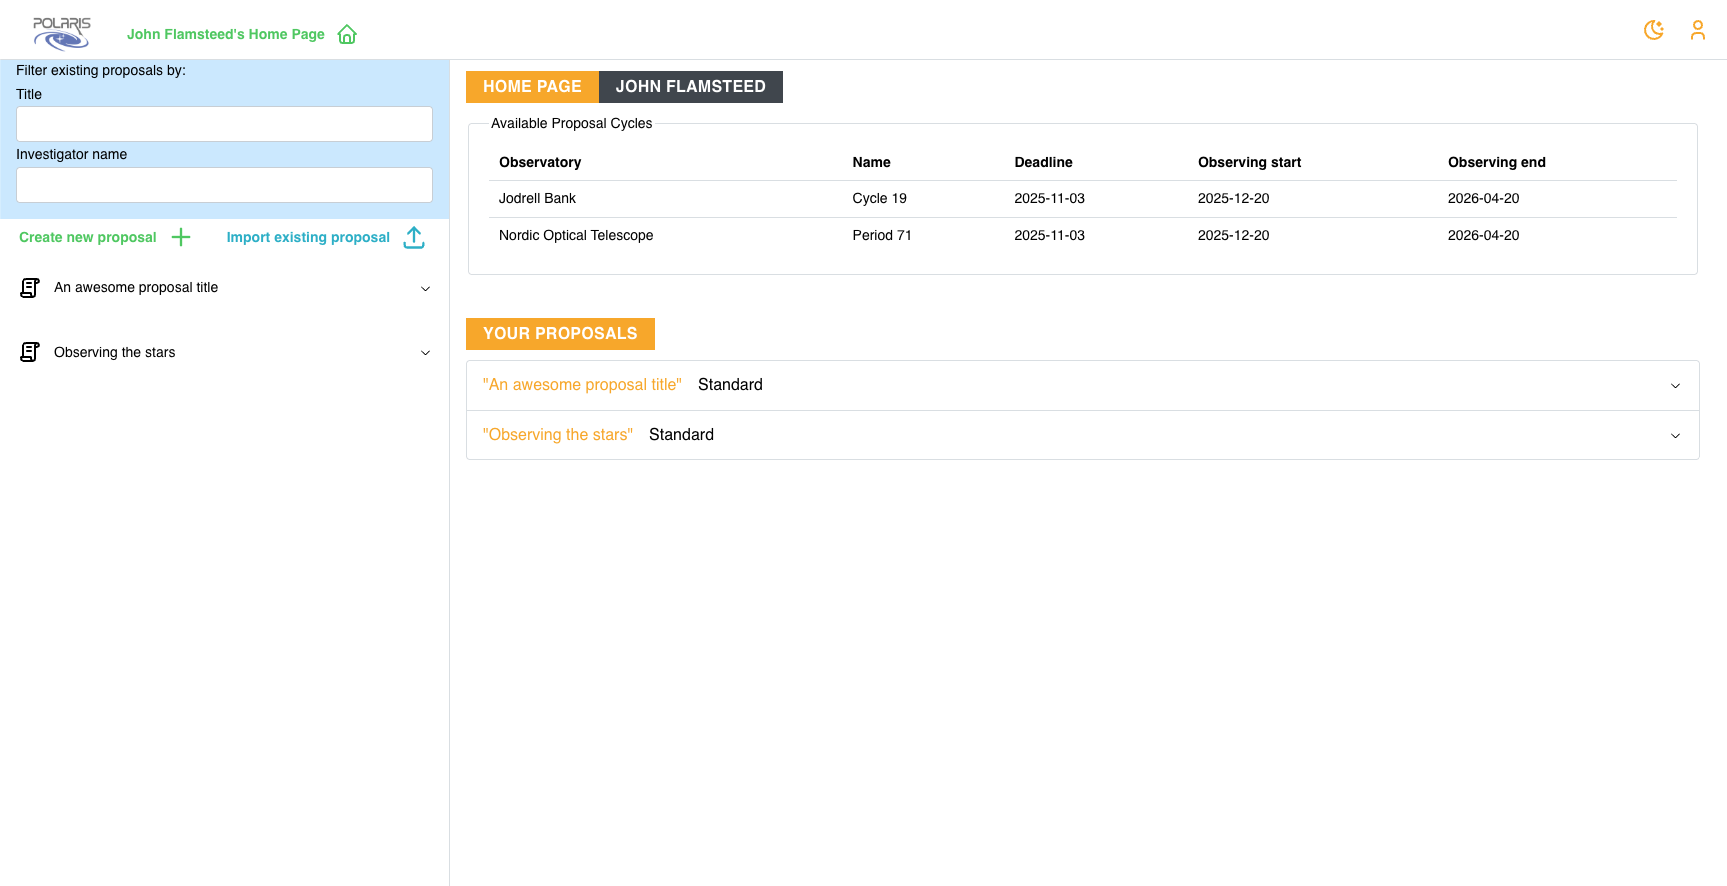
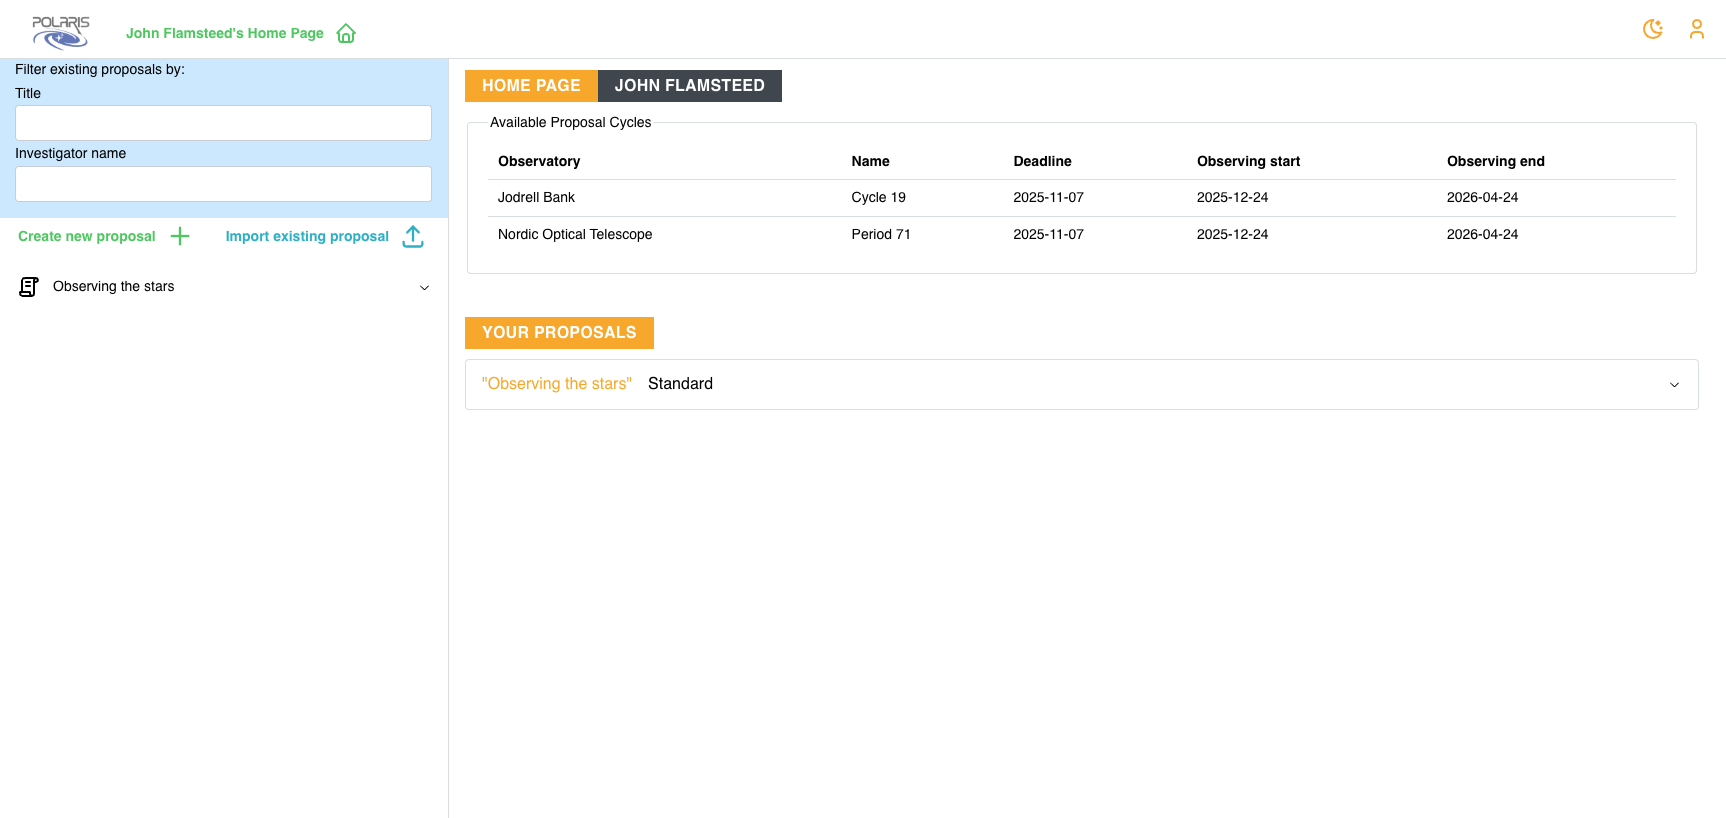
update text instructions and screenshots to latest

diff --git a/docs/Observer/Justifications/index.md b/docs/Observer/Justifications/index.md
@@ -1,9 +1,16 @@
+
+Last updated **2025-10-24** Polaris _beta_ version.
+
 ## Filling out Justifications
 
 In Polaris there are two **Justification** "flavours": **Scientific** and **Technical**.
 
 Both **Justifications** are to be provided as LaTex text strings. That is, text decorated with
-the usual LaTex commands for figures, tables, and citations (or whatever else you wish to put in your document)
+the usual LaTex commands for figures, tables, and citations (or whatever else you want to insert into your document).
+
+In the current version of Polaris you must manually save (urgh!) your **Justification** texts. We recommend creating
+and editing the texts elsewhere then copy-paste them into Polaris. In future versions of Polaris we will make the
+Justifications a "save as you type" service. 
 
 These texts will be inserted into the following "main.tex" file under the relevant section headings:
 
@@ -53,7 +60,11 @@ These texts will be inserted into the following "main.tex" file under the releva
 ```
 The ellipsis (...) in the file replaces a lengthy section where we define custom "insert figure" functions. These
 functions are described in detail in the _Help_ tab found on the **Justifications** page in Polaris. Also see the
-**Custom Insert Figure Functions** section below.
+[**Custom Insert Figure Functions**](#custom-insert-figure-functions) section below.
+
+We are using our own bibliography style template that (generally) gives only the sufficient details of a reference
+to find the associated article. We've done this in an effort to reduce "bloat" in the _References_ section of the
+compiled document.
 
 The following screenshot shows the Justifications page in Polaris. Please notice that the two **Justification**
 text areas are found in separate tabs labelled _Scientific Justification_ and _Technical Justification_, along with 
@@ -89,8 +100,9 @@ Please note that image formats are restricted to '.jpg', '.png', '.eps', and '.p
 be aware that uploading an image file with the same filename as an existing file
 will overwrite that file, and there will be no warning. You cannot have multiple bibliography files.
 
-We are using our own bibliography style template that (generally) gives only the sufficient details of a reference
-to find the associated article. 
+Justification resource files are considered to be **Supporting Documents** and as such can also be viewed and
+downloaded in the **Documents** section of Polaris. The documents belong to a given proposal and all _Investigators_
+associated with the proposal may view and download the files any other investigator has uploaded.
 
 ## Custom Insert Figure Functions
 
@@ -110,6 +122,9 @@ and 1, defining the width of the figure in terms of the text-width. It defaults 
 0.5 for the single figure cases, and is an even division of the total text-width for
 the multiple figure cases. If supplied, the width parameter for the multiple figure
 cases applies to each of the images in the figure, rather than the whole figure itself.
+The astute among you will have deduced then that the product of the width
+value with the number of figures must not exceed one, else the figures will overflow
+the text.
 
 The **filename** parameter(s) should match the name of the image file(s) that you wish to
 insert. You may exclude the dot extension part of the filename, just remember that the filename
@@ -124,16 +139,12 @@ multiple figure cases, the 'filename' should be the name of the first filename p
 edge-case issue with this labelling strategy. If you have a single figure that uses an image file repeated
 as the first image in a multiple figure command, you'll get a naming conflict. The most straightforward 
 way around this issue would be to exclude the dot extension for one of the filenames. If you're including
-the same image in more than two figures (though you'd better have a good reason for doing this) then you could upload 
+the same image in more than two figures (I mean, _WHY_!?) then you could upload 
 the image with different filenames such that the figure labels will be different.
 
 Notice that the two figure and three figure functions will place the images in a
 single row, whereas the four figure function will place the images in a two-by-two
-arrangement.The astute among you will have deduced then that the product of the width
-value with the number of figures must not exceed one, else the figures will overflow
-the text. In the case of the four-figure command due to the two-by-two arrangement,
-two times the width parameter must not exceed one. For the multiple figure functions,
-each image will be labelled '(a)' through to '(d)' where appropriate.
+arrangement. For the multiple figure functions, each image will be labelled '(a)' through '(d)' where appropriate.
 
 If the multiple figure-caption layout is not to your liking, or you have more than four images to place in a figure,
 then you can always create your own multiple figure as a single image file and use the "onefigure" command.
@@ -144,15 +155,18 @@ or 'r' or 'R' for the image on the right. The uppercase version allows the image
 float, whereas the lowercase version means exactly here. (Our command uses the
 'wrapfigure' environment from the 'wrapfig' package).
 
+Of course, you can entirely ignore these custom insert figure functions and use the standard Latex syntax for
+inserting figures (using the 'graphicx' package). 
+
 # Compiling your Justification
 
-To compile your **Justification** document simply click the _Compile to PDF_ button. We
+To compile your **Justification** document click the _Compile to PDF_ button. We
 recommend keeping 'Warnings as errors' checked. After a short delay waiting for the compilation 
 to complete on the server, a modal will open displaying the status of the compilation.
 
-If you have compilation errors they will be listed in the _Latex Status_ section of the modal.
+If you have compilation errors they will be listed in the _Compilation output_ section of the modal.
 Typically, these will be caused by typos in the LaTex commands or missing resource files. To illustrate
-in the following screenshot we have tried to compile a document with an inserted a figure using
+in the following screenshot we have tried to compile a document with an insert figure command using
 an image file named 'missing' we have yet to upload to the server.
 
 ![polaris Justification compilation failure](polaris-justifications-failure.png)
@@ -169,8 +183,10 @@ If your compilation was successful you will see the following output in the moda
 
 It will give you a page count and a _Download PDF_ button that when clicked downloads the compiled document.
 Another _Download PDF_ button will also appear in the **Justifications** main page. Please be aware that the
-button on the Justifications main page, will download the latest _successfully_ compiled document only.
+button on the Justifications main page, will download the latest _successfully_ compiled document only. That is,
+any edits to your Justification texts that do not compile successfully with not appear in the downloadable
+document (this may be obvious to most of you, but we know what some of you are like).
 
-For your information, you will see a _CYCLE ID HERE_ placeholder in the header of the document. This is for the
+For your information, you will see a "_CYCLE-ID-HERE_" placeholder in the header of the document. This is for the
 Time Allocation Committee (of a particular Proposal Cycle) use only, and is replaced with an actual value upon 
 submission of the proposal to a cycle.

diff --git a/docs/Observer/Creating Proposals/build-observation.md b/docs/Observer/Creating Proposals/build-observation.md
@@ -6,6 +6,9 @@ description: >
 categories: [Examples]
 tags: [test, sample, docs]
 ---
+
+Last updated **2025-10-24** Polaris _beta_ version.
+
 # Build an Observation
 
 After adding at least one **Target** and at least one **Technical Goal** you will see the following summary page 
@@ -27,31 +30,30 @@ The messages in red describe the necessary fields that are required to create an
 its type and intended use where appropriate.
 
 Each **Observation** must have at least one **Target** and multiple selections are allowed. **Observations** can
-only have one **Technical Goal** selected, and you must provide at least one **Timing Window**. 
+only have one **Technical Goal** selected. **Timing Windows** are optional, and in general refer to some
+(external) observation that relates to your proposal in some way. 
 
 A **Timing Window** is a timing constraint on the **Observation**, and consists of _start_ and _end_ times that 
 can be specified up to the minutes unit, an _avoid_ toggle switch that changes the meaning of the window, to be
 explained presently, and an optional note to provide additional information if required. Typically, a 
-**Timing Window** will specify the range of times when the **Observation** should be performed i.e., the _avoid_ 
-toggle is unset. However, with the _avoid_ toggle set the window then specifies the range of times when the 
-**Observation** should **_not_** be performed. (Notice that
-the **Timing Window** must relate to the **Proposal Cycle** _session_ interval to which you will be submitting
-the proposal - this validation check is done during the submission process.)
+**Timing Window** will specify when an external observation will be performed i.e., the _avoid_ 
+toggle is unset. However, with the _avoid_ toggle set the window then specifies the range of times when the external
+observation will **_not_** be performed. You can add as many **Timing Windows** to an **Observation** as required by 
+your needs. Please note that the _start_ time must be at an earlier time than the _end_ time, but that different 
+**Timing Windows** may overlap. It is recommended to write optional notes to provide context for anyone reviewing your 
+proposal. Notice that we assume all times are entered as UTC. Generally, most proposals will not be using this feature.
 
-You can add as many **Timing Windows** to an **Observation** as required by your needs. Please note that the 
-_start_ time must be at an earlier time than the _end_ time, but that different **Timing Windows** may overlap. 
-In this case, it is recommended to write optional notes to provide context for anyone reviewing your proposal. 
-Notice that we assume all times are entered as UTC. 
-
-With all that information entered, click _Save_ to save the **Observation** to your **Proposal**. This will 
-bring you back to the _Observations_ summary page, that will now contain your newly built **Observation**.
+With the required information, Type, Target(s), and Technical Goals, entered, click _Save_ to save the 
+**Observation** to your **Proposal**. This will bring you back to the _Observations_ summary page, that will now 
+contain your newly built **Observation**.
 
 ![Observations summary page](polaris-observation-list.png)
 
 
 As with **Technical Goals** you may _Edit_ and _Copy_ **Observations** to avoid having to repeat data entry for
-**Observations** that have similar attributes. For example, using the same **Target** but for different types,
-_Target_ or _Calibration_, of **Observation** with perhaps the same **Technical Goal** and/or timing constraints.
+**Observations** that have similar attributes. Due to restrictions in the backend code you cannot change the _Type_
+of an existing **Observation**. If you wish to create an **Observation** with a different _Type_ you must 
+create a new **Observation** rather than copying one. 
 
 With an **Observation** now built both the **Target** and the **Technical Goal** to which it refers have their 
 _Delete_ button disabled. This prevents you from deleting either of these things while they are actively referred

diff --git a/docs/Observer/Submitting Proposals/index.md b/docs/Observer/Submitting Proposals/index.md
@@ -1,10 +1,12 @@
 
-Last updated **2025-10-21** Polaris _beta_ version.
+Last updated **2025-10-24** Polaris _beta_ version.
 
 # Submit your Proposal
 
 Once you are happy with the details of your **Proposal**, and it has passed the server side validation checks
-you may submit it for review.
+you may submit it for review. Please notice that submission it restricted to the _Principal Investigator_ only,
+_Co-Investigators_ cannot submit proposals.
+
 The proposal submission process consists of several steps.
 
 ## Step 1 - Select the **Proposal Cycle**
@@ -19,12 +21,16 @@ Once selected click _Next step_ to continue to the next step.
 
 Server side validation checks currently include:
 
-* at least one **Observation** added with at least one **Timing Window**
-  * which requires at least one **Target** and at least one **Technical Goal**
-* a successfully compiled Justification PDF
+* at least one **Observation** added
+    * which requires at least one **Target** and at least one **Technical Goal**
+* a successfully compiled **Justification PDF**
+    * which includes having non-empty **Justification** texts
 
-As we develop the server side validation checks this list will grow. We expect this list to expand as we put 
-Polaris in to beta-testing.
+You _can_ compile an "empty" **Justification PDF** i.e., empty texts, but this will fail the validation check.
+Notice that if your justifications texts are short (< 256 characters) then this check will emit a warning to
+that effect, as your justification texts should be longer, but it will not fail the check.
+
+As we develop the server side validation checks we expect this list to potentially expand.
 
 If a **Proposal** doesn't pass the validation checks then you will be presented with the following page for 
 _Step 2_ in the submission process, which lists the problems.
@@ -33,6 +39,7 @@ _Step 2_ in the submission process, which lists the problems.
 
 
 Here we have created another proposal but haven't added any **Targets**, **Technical Goals**, or **Observations**. 
+We also have not written any Justification texts or attempted to compile the PDF document.
 Please notice that the messages are links that will take you to the relevant page in Polaris so you can address
 the issues. In this case the _Next step_ button is disabled.
 
@@ -78,13 +85,21 @@ should be presented with the following screen.
 You will also be sent a confirmation email outlining that you have just successfully submitted your proposal to
 the cycle of choice. This email is sent to all investigators associated with the proposal.
 
+For your information, when your **Observing Proposal** is submitted it is copied into a new **Submitted Proposal**,
+in essence creating a "snapshot" of your proposal at the point of submission. The **Submitted Proposal** is a
+different entity to your **Observing Proposal** and is non-editable. You may continue to edit your
+**Observing Proposal** without effecting the **Submitted Proposal**. If you need to update a **Submitted Proposal**
+then you must first withdraw that proposal from the cycle 
+(see [**Withdrawing a Submitted Proposal**](#withdrawing-a-submitted-proposal))
+and resubmit your edited **Observing Proposal**. 
+
 Clicking on _Done_ will take you back to the _Overview_ page for the proposal.
 
 
 ## Withdrawing a Submitted Proposal
 
 The Principal Investigator may withdraw a submitted proposal from a **Proposal Cycle** up to the submission
-deadline for that cycle. The _Withdraw_ button is located on the user's homepage, one per cycle to which a proposal 
+deadline for that cycle. The _withdraw_ button is located on the user's homepage, one per cycle to which a proposal 
 has been submitted, shown in the screenshot below.
 
 ![polaris homepage withdraw](polaris-home-page-withdraw.png)

diff --git a/docs/Observer/Creating Proposals/adding-targets.md b/docs/Observer/Creating Proposals/adding-targets.md
@@ -7,7 +7,7 @@ categories: [Examples]
 tags: [test, sample, docs]
 ---
 
-Last updated: 2025-10-21 Polaris _beta_ version
+Last updated **2025-10-24** Polaris _beta_ version.
 
 # Adding a Targets
 
@@ -33,7 +33,7 @@ database. In the screenshot shown the _main-id_ for the Crab Nebula is "M 1".
 
 You may also double-click anywhere on the displayed Sky Atlas. This will centre the Atlas under the
 position you just double-clicked and fill out the form with a "random" target name and the corresponding 
-positional details will be updated in the RA and DEC fields. These will be displayed as sexagesimal with
+coordinates for the RA and DEC fields. These will be displayed as sexagesimal with
 the equivalent degree value displayed under the field box. 
 
 You can also manually fill in the fields, the Sky Atlas will automatically change the view to those 
@@ -72,9 +72,9 @@ where you are required to provide the columns 'name', 'ra', and 'dec' of the tar
 columns may be omitted with the caveat that if you provide one proper-motion ('pm') column, you must provide the
 other. The names can only be ASCII characters and the other values are integer or decimal digits. All units are in degrees 
 or degrees per second for rates. The order of the columns is not important (to the code at least, 
-to your sanity maybe). Any optional data value i.e., 'pmra', 'pmdec', 'plx', 'rv', that isn't available but for which
-you have a column should be left blank e.g., the target 'alpha' in the (made-up) list above has no parallax data. Again
-we recommend using either one of the other two formats to add a list of targets.
+to your sanity maybe). Any optional data value i.e., 'pmra', 'pmdec', 'plx', 'rv' (radial velocity), that isn't available but for which
+you have a column should be left blank e.g., the target 'alpha' in the (made-up) list above has no parallax ('plx') data.
+Again we recommend using either one of the other two formats to add a list of targets.
 
 ## Next Step
 

diff --git a/docs/Observer/Creating Proposals/adding-technical-goals.md b/docs/Observer/Creating Proposals/adding-technical-goals.md
@@ -7,7 +7,7 @@ categories: [Examples]
 tags: [test, sample, docs]
 ---
 
-Last updated: 2025-10-21 Polaris _beta_ version
+Last updated **2025-10-24** Polaris _beta_ version.
 
 # Add a Technical Goal
 
@@ -21,10 +21,14 @@ To add a **Technical Goal** click the _Add +_ button, which will bring up the _N
 ![new technical goals form](polaris-tech-goals-new.png)
 
 
-The values can be freely entered but the units are selected via a drop-down menu. These values are what you would 
-like the observation to achieve, and are not necessarily strict requirements. The _Performance Parameters_ are the 
-minimum amount of information required to _Save_ a **Technical Goal**. For now, we ignore the _Spectral Window_ 
-aspect of a **Technical Goal**, to be revisited later.
+The field values can be freely entered but the units are selected via a drop-down menu. These values are what you would 
+like the observation to achieve rather than strict requirements. The _Performance Parameters_ are the 
+minimum amount of information required to _Save_ a **Technical Goal**. 
+
+**Spectral Windows** are optional but if provided consist of a _start_ and _end_ frequency defining the range
+of the EM-spectrum you are interested in, the _resolution_ of that range, a _polarization_ option, and whether the
+frequency of the range is a _sky frequency_. The _Spectral point_ of the _Performance Parameters_ should be related
+to this range. 
 
 After clicking _Save_ you will be brought back to the technical goals summary page, which should now display your
 newly added **Technical Goal**. 

diff --git a/docs/Observer/index.md b/docs/Observer/index.md
@@ -6,4 +6,4 @@ Observers will mostly interact with Polaris via the [web based GUI](../prototype
 There is also a [Front end CLI](https://github.com/orppst/pst-cli-app)  under development which will offer a way of manipulating proposals via scripting.
 
 
-
+You can find instructions on creating your first proposal [here](Creating%20Proposals/index.md).
